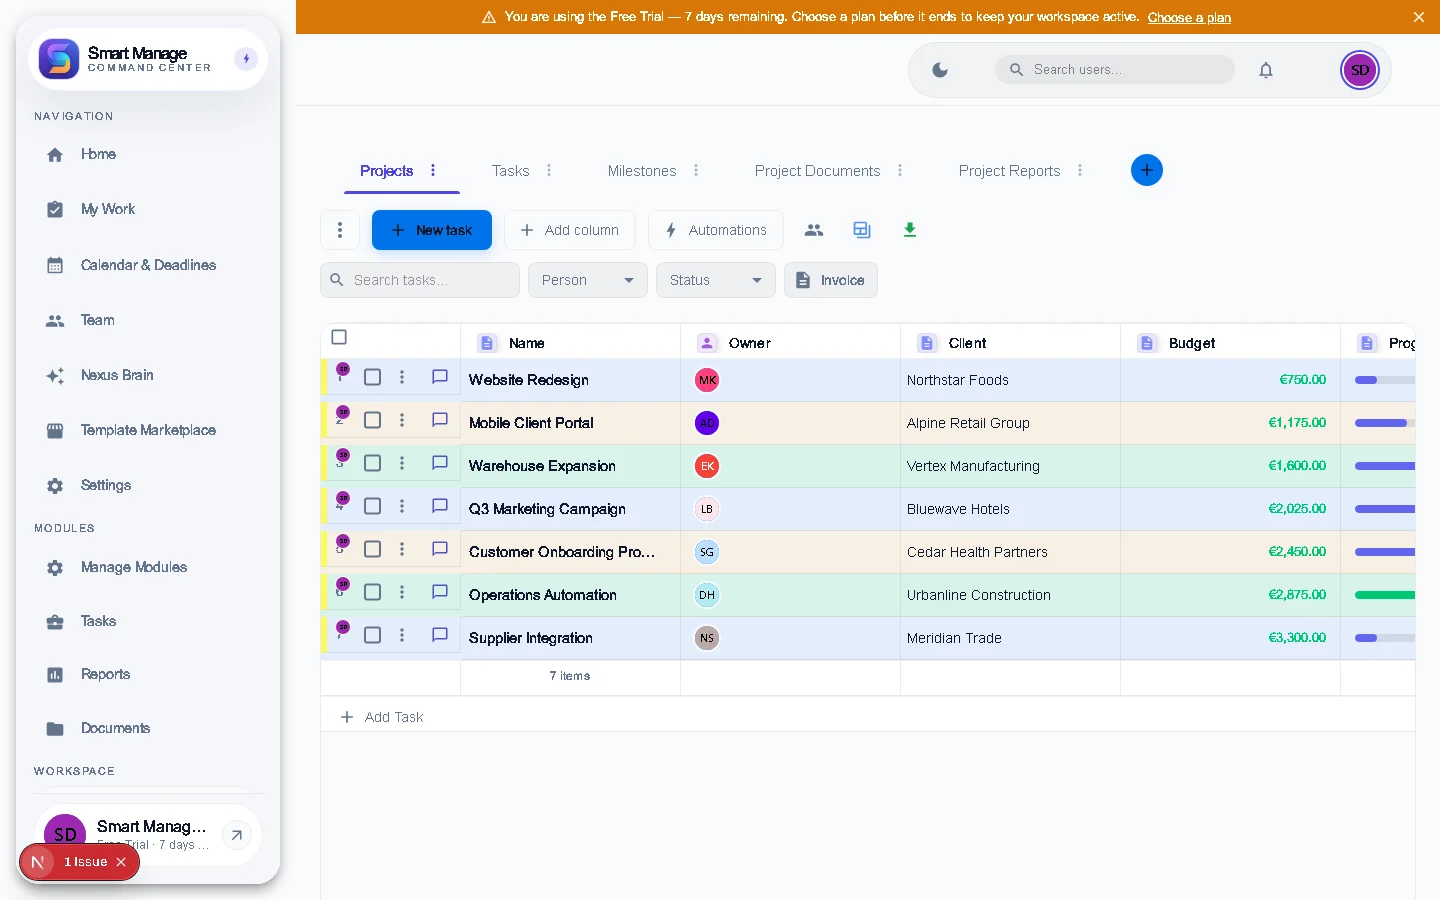
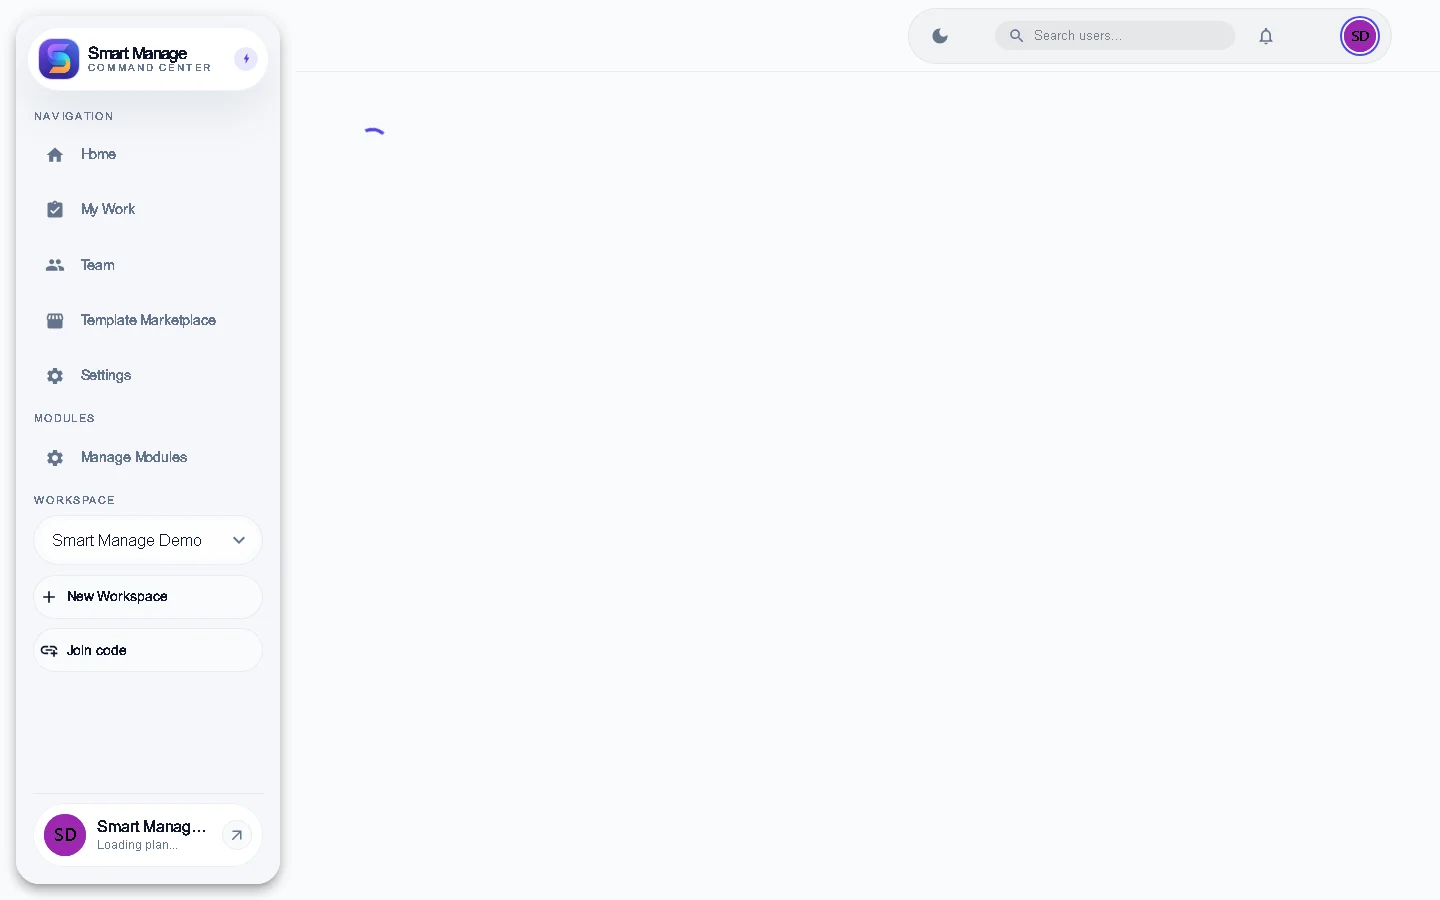
Polish landing and secure demo screenshots

diff --git a/src/app/page.tsx b/src/app/page.tsx
@@ -39,6 +39,7 @@ import HandshakeRoundedIcon from "@mui/icons-material/HandshakeRounded";
 import ArrowForwardRoundedIcon from "@mui/icons-material/ArrowForwardRounded";
 import DemoRequestForm from "./DemoRequestForm";
 import { WORKSPACE_TEMPLATES } from "../workspaceTemplates";
+import { marketingScreenshots } from "./marketingScreenshots";
 
 function trackMarketingEvent(name: string, detail: Record<string, string> = {}) {
   if (typeof window !== "undefined") window.dispatchEvent(new CustomEvent("smartmanage:analytics", { detail: { name, ...detail } }));
@@ -68,20 +69,18 @@ export default function LandingPage() {
 
   const serviceItems = [
     {
-      title: "Project Management",
-      description: "Organize projects and track their progress in real time.",
+      title: "Run operations",
+      description: "Plan work, assign teams and keep every process moving.",
     },
     {
-      title: "Task Management",
-      description: "Create, assign and complete tasks efficiently.",
+      title: "Connect your business",
+      description: "Bring customers, projects, documents and communication together.",
     },
     {
-      title: "Calendar & Deadlines",
-      description: "Keep meetings, events and deadlines organized.",
+      title: "Give every role the right experience",
+      description: "Managers and operational users see only the information and actions they need.",
     },
-    { title: "Reports", description: "Create and manage business reports in one place." },
-    { title: "Team Collaboration", description: "Work together with your team and share updates." },
-    { title: "File Management", description: "Store and organize important files securely." },
+    { title: "Adapt to any industry", description: "Start from a professional template and customize it around your business." },
   ];
 
   const serviceIcons = [<FolderCopyRoundedIcon key="project" />, <ChecklistRoundedIcon key="tasks" />, <CalendarMonthRoundedIcon key="calendar" />, <InsertChartRoundedIcon key="reports" />, <GroupsRoundedIcon key="team" />, <FolderOpenRoundedIcon key="files" />];
@@ -255,60 +254,36 @@ export default function LandingPage() {
 
             <Stack
               direction="row"
-              spacing={3}
+              spacing={2.5}
               sx={{
                 display: { xs: "none", md: "flex" },
                 alignItems: "center",
               }}
             >
-              <Button onClick={() => scrollToSection("top")} sx={navButtonSx}>Home</Button>
               <Button onClick={() => scrollToSection("product")} sx={navButtonSx}>Product</Button>
               <Button onClick={() => scrollToSection("solutions")} sx={navButtonSx}>Solutions</Button>
               <Button onClick={() => scrollToSection("templates")} sx={navButtonSx}>Templates</Button>
-              <Button onClick={() => scrollToSection("services")} sx={navButtonSx}>Features</Button>
-              <Button onClick={() => scrollToSection("about")} sx={navButtonSx}>About Us</Button>
               <Button onClick={() => navigateToAppRoute("/pricing", router)} sx={navButtonSx}>Pricing</Button>
-              <Button onClick={() => scrollToSection("request-demo")} sx={{ ...navButtonSx, color: LIGHT.primary }}>Request Demo</Button>
             </Stack>
 
             <Stack direction="row" spacing={1.25} sx={{ alignItems: "center" }}>
               {authenticated && <Button onClick={() => navigateToAppRoute("/home", router)} sx={{ ...navButtonSx, color: LIGHT.primary }}>Open Smart Manage</Button>}
+              <Button onClick={() => scrollToSection("request-demo")} variant="outlined" sx={{ display: { xs: "none", md: "inline-flex" }, borderRadius: 999, px: 2, textTransform: "none", fontWeight: 800, borderColor: LIGHT.primary, color: LIGHT.primary }}>Request Demo</Button>
               <Button
-                component="a"
-                href={desktopDownloadUrl}
-                target="_blank"
-                rel="noopener noreferrer"
-                startIcon={<DownloadIcon />}
+                onClick={() => navigateToAppRoute("/login", router)}
                 sx={{
-                  display: { xs: "none", md: "inline-flex" },
+                  display: { xs: "none", sm: "inline-flex" },
                   color: LIGHT.text,
                   borderRadius: 999,
                   px: 2,
                   py: 0.8,
                   textTransform: "none",
                   fontWeight: 700,
-                  border: `1px solid ${LIGHT.border}`,
-                  backgroundColor: "#fff",
-                  "&:hover": { backgroundColor: "#f8fafc", borderColor: LIGHT.primary },
+                  backgroundColor: "transparent",
+                  "&:hover": { backgroundColor: "rgba(99,102,241,.06)" },
                 }}
               >
-                Download
-              </Button>
-              <Button
-                onClick={() => navigateToAppRoute("/login", router)}
-                sx={{
-                  display: { xs: "none", sm: "inline-flex" },
-                  color: "#fff",
-                  borderRadius: 999,
-                  px: 2,
-                  py: 0.8,
-                  textTransform: "none",
-                  fontWeight: 700,
-                  backgroundColor: LIGHT.primary,
-                  "&:hover": { backgroundColor: LIGHT.primaryDark },
-                }}
-              >
-                Login
+                Sign In
               </Button>
               <Button
                 variant="contained"
@@ -325,7 +300,7 @@ export default function LandingPage() {
                   "&:hover": { background: LIGHT.primaryDark, boxShadow: "none" },
                 }}
               >
-                Sign Up
+                Start Free
               </Button>
               <IconButton
                 aria-label="Open navigation"
@@ -423,7 +398,7 @@ export default function LandingPage() {
                 </Typography>
 
                 <Stack direction="row" spacing={1.2} flexWrap="wrap" useFlexGap>
-                  {["Projects","Tasks","Calendar","Reports","Team Chat"].map((label) => <Stack key={label} direction="row" spacing={.6} alignItems="center"><CheckCircleRoundedIcon sx={{fontSize:18,color:"#6D4AFF"}}/><Typography sx={{fontSize:14,fontWeight:700}}>{label}</Typography></Stack>)}
+                  {["Flexible workflows","Role-based access","Real-time collaboration"].map((label) => <Stack key={label} direction="row" spacing={.6} alignItems="center"><CheckCircleRoundedIcon sx={{fontSize:18,color:"#6D4AFF"}}/><Typography sx={{fontSize:14,fontWeight:700}}>{label}</Typography></Stack>)}
                 </Stack>
 
                 <Stack
@@ -458,6 +433,7 @@ export default function LandingPage() {
                   </Button>
 
                 </Stack>
+                <Button onClick={() => scrollToSection("product")} sx={{ alignSelf: "flex-start", p: 0, color: LIGHT.text, textTransform: "none", fontWeight: 800 }}>See how it works →</Button>
               </Stack>
             </motion.div>
 
@@ -480,7 +456,7 @@ export default function LandingPage() {
               >
                 <Box
                   component="img"
-                  src="/marketing/boards.webp"
+                  src={marketingScreenshots.hero}
                   alt="Smart Manage project board with real demo workspace data"
                   sx={{ width: "100%", borderRadius: { xs: 3, md: 5 }, border: "1px solid rgba(15,23,42,.08)", boxShadow: "0 28px 80px rgba(37,42,88,.18)" }}
                 />
@@ -508,7 +484,7 @@ export default function LandingPage() {
                 </Stack>
 
                 <Box sx={{ display:"grid",gridTemplateColumns:{xs:"1fr",md:"1fr 1fr"},gap:{xs:4,md:6},alignItems:"center" }}>
-                  <Box component="img" src="/marketing/logistics.webp" alt="Smart Manage logistics workspace" sx={{ width: "100%", borderRadius: 4, border: "1px solid rgba(15,23,42,.08)", boxShadow: "0 24px 60px rgba(16,24,40,.12)" }} />
+                  <Box component="img" src={marketingScreenshots.fleet} alt="Smart Manage fleet operations workspace" sx={{ width: "100%", borderRadius: 4, border: "1px solid rgba(15,23,42,.08)", boxShadow: "0 24px 60px rgba(16,24,40,.12)" }} />
                   <Box sx={{display:"grid",gridTemplateColumns:{xs:"1fr",sm:"repeat(2,1fr)"},gap:2}}>{serviceItems.map((item, idx) => (
                     <motion.div
                       key={item.title}
@@ -574,7 +550,7 @@ export default function LandingPage() {
               <Typography sx={{ color: LIGHT.primary, fontWeight: 900, letterSpacing: ".16em", fontSize: 12 }}>SEE SMART MANAGE IN ACTION</Typography>
               <Typography component="h2" sx={{ fontSize: { xs: 30, md: 44 }, fontWeight: 900, mt: 1 }}>Real workflows. Real product UI.</Typography>
               <Box sx={{ display: "grid", gridTemplateColumns: { xs: "1fr", lg: "repeat(3,1fr)" }, gap: 2, mt: 3 }}>
-                {[["Boards","Structure work around the way your team operates.","/marketing/boards.webp"],["Operations","Follow logistics work from assignment to completion.","/marketing/logistics.webp"],["CRM","Keep companies, contacts and deals connected.","/marketing/crm.webp"]].map(([title,copy,image]) => <Box key={title} sx={{ border: `1px solid ${LIGHT.border}`, borderRadius: 4, overflow: "hidden", bgcolor: "#fff" }}><Box component="img" loading="lazy" src={image} alt={`${title} in Smart Manage`} sx={{ width: "100%", aspectRatio: "16/10", objectFit: "cover", objectPosition: "top left", display: "block" }} /><Box sx={{ p: 2.5 }}><Typography fontWeight={900}>{title}</Typography><Typography sx={{ color: LIGHT.textSecondary, mt: .7 }}>{copy}</Typography></Box></Box>)}
+                {[["Boards","Structure work around the way your team operates.",marketingScreenshots.boards],["Operations","Follow logistics work from assignment to completion.",marketingScreenshots.operations],["CRM","Keep companies, contacts and deals connected.",marketingScreenshots.crm]].map(([title,copy,image]) => <Box key={title} sx={{ border: `1px solid ${LIGHT.border}`, borderRadius: 4, overflow: "hidden", bgcolor: "#fff" }}><Box component="img" loading="lazy" src={image} alt={`${title} in Smart Manage`} sx={{ width: "100%", aspectRatio: "16/10", objectFit: "cover", objectPosition: "top left", display: "block" }} /><Box sx={{ p: 2.5 }}><Typography fontWeight={900}>{title}</Typography><Typography sx={{ color: LIGHT.textSecondary, mt: .7 }}>{copy}</Typography></Box></Box>)}
               </Box>
             </Box>
 
@@ -588,8 +564,9 @@ export default function LandingPage() {
               <Typography component="h2" sx={{ fontSize: { xs: 30, md: 44 }, fontWeight: 900 }}>Start with a proven template.</Typography>
               <Typography sx={{ color: LIGHT.textSecondary, mt: 1 }}>Choose a starting point, customize every detail, then invite your team.</Typography>
               <Box sx={{ display: "grid", gridTemplateColumns: { xs: "1fr 1fr", md: "repeat(4,1fr)" }, gap: 1.5, mt: 3 }}>
-                {WORKSPACE_TEMPLATES.filter((template) => template.key !== "blank").slice(0, 12).map((template) => <Box key={template.key} sx={{ p: 2.2, border: `1px solid ${LIGHT.border}`, borderRadius: 3, bgcolor: "#fff" }}><Typography fontWeight={850}>{template.name}</Typography><Button onClick={handleGetStarted} sx={{ p: 0, mt: 1, textTransform: "none", fontWeight: 800 }}>Use template →</Button></Box>)}
+                {WORKSPACE_TEMPLATES.filter((template) => ["freight_broker","crm_sales","construction","dental_clinic","kindergarten_nursery","hotel"].includes(template.key)).map((template) => <Box key={template.key} sx={{ p: 2.5, border: `1px solid ${LIGHT.border}`, borderRadius: 3, bgcolor: "#fff" }}><Typography fontSize={24} aria-hidden>{template.icon}</Typography><Typography fontWeight={850} mt={1}>{template.name}</Typography><Typography sx={{ color: LIGHT.textSecondary, fontSize: 13, mt: .7 }}>{template.description}</Typography><Button onClick={handleGetStarted} sx={{ p: 0, mt: 1.5, textTransform: "none", fontWeight: 800 }}>Preview →</Button></Box>)}
               </Box>
+              <Button onClick={() => navigateToAppRoute("/marketplace", router)} sx={{ mt: 2, textTransform: "none", fontWeight: 900 }}>Explore All Templates →</Button>
             </Box>
 
             <Box id="request-demo" sx={{ scrollMarginTop: 96, display: "grid", gridTemplateColumns: { xs: "1fr", md: ".8fr 1.2fr" }, gap: 5, p: { xs: 3, md: 6 }, borderRadius: 5, bgcolor: "#F7F5FF", border: "1px solid #E8E3FF" }}>
@@ -599,7 +576,7 @@ export default function LandingPage() {
 
             <Box sx={{ display: "grid", gridTemplateColumns: { xs: "1fr", md: "1fr 1fr" }, gap: 3 }}>
               <Box sx={{ p: 4, borderRadius: 4, bgcolor: "#eef2ff" }}><Typography component="h2" fontSize={30} fontWeight={900}>Security built into everyday work.</Typography><Typography sx={{ color: LIGHT.textMuted, lineHeight: 1.8, mt: 1.5 }}>Role-based access, protected workspaces, HTTPS traffic, secure password reset, session management and controlled private file access.</Typography></Box>
-              <Box sx={{ p: 4, borderRadius: 4, bgcolor: "#ecfdf5" }}><Typography component="h2" fontSize={30} fontWeight={900}>Work everywhere.</Typography><Typography sx={{ color: LIGHT.textMuted, lineHeight: 1.8, mt: 1.5 }}>Use Smart Manage on the web, the Windows desktop application, Android and mobile-ready layouts. iOS support is available where configured.</Typography></Box>
+              <Box sx={{ p: 4, borderRadius: 4, bgcolor: "#ecfdf5" }}><Typography sx={{ color: "#047857", fontWeight: 900, letterSpacing: ".14em", fontSize: 12 }}>WORK WHEREVER YOU DO.</Typography><Typography component="h2" fontSize={30} fontWeight={900} mt={1}>Web, Windows and mobile.</Typography><Typography sx={{ color: LIGHT.textMuted, lineHeight: 1.8, mt: 1.5 }}>Use Smart Manage on the web, Windows desktop and responsive Android/mobile layouts. iOS is available only where configured.</Typography><Button component="a" href={desktopDownloadUrl} target="_blank" rel="noopener noreferrer" startIcon={<DownloadIcon />} sx={{ mt: 2, textTransform: "none", fontWeight: 900 }}>Download Desktop App</Button></Box>
             </Box>
 
             <Box>
@@ -624,7 +601,7 @@ export default function LandingPage() {
             >
               <Box id="about" sx={{ scrollMarginTop: { xs: 88, md: 96 } }}>
                 <Box sx={{ display: "grid", gridTemplateColumns: { xs: "1fr", md: "1fr 1fr" }, gap: { xs: 3, md: 6 }, alignItems: "center", p: { xs: 2, md: 5 }, mb: 3, bgcolor: "#F6F3FF", borderRadius: 4 }}>
-                  <Box component="img" src="/marketing/crm.webp" alt="Smart Manage CRM workspace" sx={{ width: "100%", borderRadius: 3, border: "1px solid rgba(15,23,42,.08)", boxShadow: "0 18px 50px rgba(16,24,40,.12)" }} />
+                  <Box component="img" loading="lazy" src={marketingScreenshots.healthcare} alt="Smart Manage healthcare workspace" sx={{ width: "100%", borderRadius: 3, border: "1px solid rgba(15,23,42,.08)", boxShadow: "0 18px 50px rgba(16,24,40,.12)" }} />
                   <Box><Typography sx={{ textTransform: "uppercase", letterSpacing: ".18em", color: "#6D4AFF", fontWeight: 800, fontSize: 12 }}>ABOUT SMART MANAGE</Typography><Typography sx={{ fontSize: { xs: 28, md: 42 }, fontWeight: 900, lineHeight: 1.08, my: 2 }}>Built to make<br/>everyday work simpler</Typography><Typography sx={{ color: "#667085", lineHeight: 1.75 }}>Smart Manage brings your projects, tasks, reports and team together in one place so you can focus on what matters most.</Typography><Button variant="contained" onClick={() => navigateToAppRoute("/login?mode=signup", router)} sx={{ mt: 3, background: "linear-gradient(135deg,#6D4AFF,#3B82F6)" }}>Get Started</Button></Box>
                 </Box>
               </Box>
@@ -697,7 +674,7 @@ export default function LandingPage() {
               </Box>
             </motion.div>
           </Stack>
-          <Box sx={{ mt: 8, p: { xs: 3, md: 4 }, borderRadius: 4, background: "linear-gradient(135deg,#6D4AFF,#4F46E5 55%,#3B82F6)", color: "#fff", display: "flex", flexDirection: { xs: "column", sm: "row" }, alignItems: { xs: "stretch", sm: "center" }, justifyContent: "space-between", gap: 3 }}><Box><Typography sx={{ fontSize: { xs: 24, md: 32 }, fontWeight: 900 }}>Ready to organize your business?</Typography><Typography sx={{ opacity: .82 }}>Join Smart Manage and bring everything together in one smart workspace.</Typography></Box><Button endIcon={<ArrowForwardRoundedIcon />} onClick={() => navigateToAppRoute("/login?mode=signup", router)} sx={{ minHeight: 50, bgcolor: "#fff", color: "#4F46E5", fontWeight: 800, px: 4, transition: "transform .2s ease, box-shadow .2s ease", "&:hover": { bgcolor: "#F8FAFC", transform: "translateY(-2px)", boxShadow: "0 10px 24px rgba(15,23,42,.18)" }, "&:focus-visible": { outline: "3px solid rgba(255,255,255,.5)", outlineOffset: 3 } }}>Get Started Free</Button></Box>
+          <Box sx={{ mt: 8, p: { xs: 3, md: 4 }, borderRadius: 4, bgcolor: "#171A38", color: "#fff", display: "flex", flexDirection: { xs: "column", md: "row" }, alignItems: { xs: "stretch", md: "center" }, justifyContent: "space-between", gap: 3 }}><Box><Typography sx={{ fontSize: { xs: 24, md: 34 }, fontWeight: 900 }}>Build a workspace that works the way your business does.</Typography><Typography sx={{ color: "#CBD5E1", mt: 1 }}>Start with a template, customize your workflows and bring your team into one connected platform.</Typography></Box><Stack direction={{ xs: "column", sm: "row" }} spacing={1.5}><Button endIcon={<ArrowForwardRoundedIcon />} onClick={() => navigateToAppRoute("/login?mode=signup", router)} sx={{ minHeight: 50, bgcolor: "#fff", color: "#4F46E5", fontWeight: 800, px: 3, "&:hover": { bgcolor: "#F8FAFC" } }}>Start Free</Button><Button onClick={() => scrollToSection("request-demo")} variant="outlined" sx={{ minHeight: 50, color: "#fff", borderColor: "rgba(255,255,255,.7)", fontWeight: 800, px: 3 }}>Request Demo</Button></Stack></Box>
         </Container>
       </Box>
       <Box component="footer" sx={{ bgcolor: "#0F172A", color: "#fff", py: 6 }}><Container maxWidth="xl"><Box sx={{ display: "grid", gridTemplateColumns: { xs: "1fr 1fr", md: "2fr repeat(4,1fr)" }, gap: 4 }}><Box sx={{ gridColumn: { xs: "1/-1", md: "auto" } }}><Stack direction="row" spacing={1.2} alignItems="center"><Box component="img" src="/icon.png" alt="Smart Manage" sx={{ width: 38, height: 38, borderRadius: 2 }}/><Typography fontWeight={900}>Smart Manage</Typography></Stack><Typography sx={{ color: "#94A3B8", fontSize: 13, mt: 2, maxWidth: 260 }}>An all-in-one workspace to manage projects, tasks, reports, files and your team.</Typography></Box>{[["Product","Features","Integrations","Updates","Pricing"],["Resources","Documentation","Help Center","Templates","Blog"],["Company","About Us","Careers","Press Kit","Contact"],["Legal","Privacy Policy","Terms of Service","Cookie Policy","Security"]].map(([head,...links]) => <Box key={head}><Typography fontWeight={900} mb={1.5}>{head}</Typography>{links.map((x) => <Typography key={x} sx={{ color: "#94A3B8", fontSize: 13, py: .45 }}>{x}</Typography>)}</Box>)}</Box><Stack direction="row" justifyContent="space-between" sx={{ color: "#64748B", fontSize: 12, mt: 5 }}><Typography fontSize="inherit">© {new Date().getFullYear()} Smart Manage. All rights reserved.</Typography><Typography fontSize="inherit">Version 1.0</Typography></Stack></Container></Box>

diff --git a/server/services/billingService.js b/server/services/billingService.js
@@ -48,7 +48,18 @@ function isWritable(subscription) {
 async function getStatus(userId) {
   const subscription = await ensureSubscription(userId);
   const userResult = await db.query("SELECT LOWER(email) AS email FROM users WHERE id = $1", [userId]);
-  const unlimited = INTERNAL_UNLIMITED_EMAILS.includes(userResult.rows[0]?.email || "");
+  let demoOnlyOwner = false;
+  try {
+    const demoScope = await db.query(
+      `SELECT COUNT(*)::int AS total,
+              COUNT(*) FILTER (WHERE COALESCE(is_demo, false))::int AS demo_count
+       FROM workspaces WHERE owner_id = $1`,
+      [userId]
+    );
+    const counts = demoScope.rows[0] || {};
+    demoOnlyOwner = Number(counts.total) > 0 && Number(counts.total) === Number(counts.demo_count);
+  } catch {}
+  const unlimited = INTERNAL_UNLIMITED_EMAILS.includes(userResult.rows[0]?.email || "") || demoOnlyOwner;
   const seats = await db.query(
     `SELECT COUNT(DISTINCT member_id)::int AS count FROM (
        SELECT $1::text AS member_id

diff --git a/src/app/api/_lib/billing.js b/src/app/api/_lib/billing.js
@@ -70,7 +70,18 @@ export async function getBillingStatus(userId) {
     [userId]
   );
   const value = subscription.rows[0];
-  const unlimited = INTERNAL_UNLIMITED_EMAILS.includes(accountEmail);
+  let demoOnlyOwner = false;
+  try {
+    const demoScope = await pool.query(
+      `SELECT COUNT(*)::int AS total,
+              COUNT(*) FILTER (WHERE COALESCE(is_demo, false))::int AS demo_count
+       FROM workspaces WHERE owner_id = $1`,
+      [userId]
+    );
+    const counts = demoScope.rows[0] || {};
+    demoOnlyOwner = Number(counts.total) > 0 && Number(counts.total) === Number(counts.demo_count);
+  } catch {}
+  const unlimited = INTERNAL_UNLIMITED_EMAILS.includes(accountEmail) || demoOnlyOwner;
 
   if (unlimited) {
     await pool.query(

diff --git a/test/landing-page.test.js b/test/landing-page.test.js
@@ -17,3 +17,10 @@ test("landing communicates universal product, templates, security and honest FAQ
   for (const text of ["ONE WORKSPACE. EVERY PROCESS.", "Role-based access", "Frequently asked questions"])
     assert.equal(page.includes(text), true, `missing ${text}`);
 });
+
+test("major marketing screenshot assignments are unique", () => {
+  const registry = fs.readFileSync(require.resolve("../src/app/marketingScreenshots.ts"), "utf8");
+  const images = [...registry.matchAll(/:\s*"(\/marketing\/[^"]+\.webp)"/g)].map((match) => match[1]);
+  assert.ok(images.length >= 8);
+  assert.equal(new Set(images).size, images.length);
+});

diff --git a/test/demo-isolation.test.js b/test/demo-isolation.test.js
@@ -70,3 +70,10 @@ test("Phase B seeder includes all priority datasets and a fleet portal dataset",
   assert.match(source, /information_schema\.columns/);
   assert.match(source, /hasUniversalMembership/);
 });
+
+test("marketing demo-only owners receive a screenshot-safe internal entitlement", () => {
+  const billing = readFileSync(join(root, "src", "app", "api", "_lib", "billing.js"), "utf8");
+  assert.match(billing, /demoOnlyOwner/);
+  assert.match(billing, /COUNT\(\*\) FILTER \(WHERE COALESCE\(is_demo, false\)\)/);
+  assert.doesNotMatch(billing, /demo@smartmanage\.com/);
+});

diff --git a/src/app/marketingScreenshots.ts b/src/app/marketingScreenshots.ts
@@ -1,0 +1,15 @@
+export const marketingScreenshots = Object.freeze({
+  hero: "/marketing/dashboard.webp",
+  boards: "/marketing/boards.webp",
+  operations: "/marketing/logistics.webp",
+  fleet: "/marketing/fleet.webp",
+  crm: "/marketing/crm.webp",
+  construction: "/marketing/construction.webp",
+  education: "/marketing/daycare.webp",
+  healthcare: "/marketing/dental.webp",
+});
+
+export function validateMarketingScreenshotRegistry() {
+  const values = Object.values(marketingScreenshots);
+  return new Set(values).size === values.length;
+}
